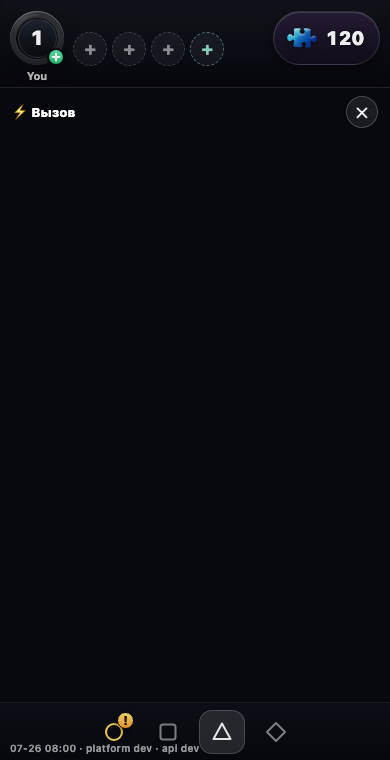
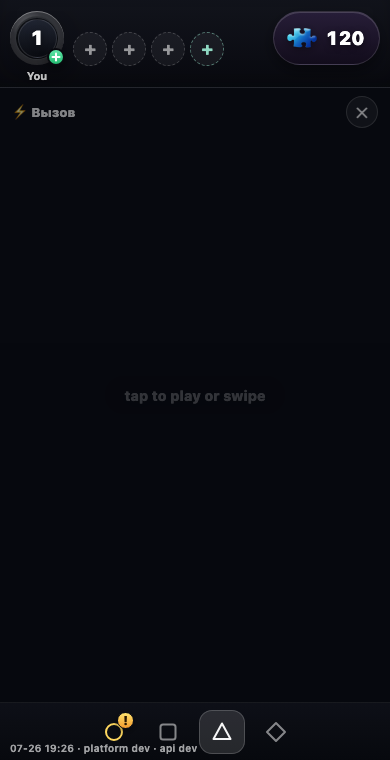
Share/Challenge V1: R2 stand evidence (P1-1 offer-bound runtime, P1-4 x-origin DOM)
Verified on backend @539480b (head 0058) + client @4990a3e with a disposable PG.

- check-challenge-xorigin-dom.mjs (P1-4 DOM, adversarial): after configured/reveal
  the iframe is navigated to a FOREIGN origin which posts completed → win REJECTED
  (0 /results, 0 complete events, no result screen). Second case answers the author's
  false-revoke concern: a legit same-origin runtime is ACCEPTED (1 /results, 1
  complete) and the chpl frame is fetched EXACTLY ONCE — no self-reload, so the
  epoch-revoke never fires on honest play.
- challenge-e2e-support/p1_offer_bound_runtime.py (P1-1 DoD): offer issued under
  release A, then A retired + B activated → the committed offer still resolves and
  DELIVERS A; the level-bundle indexLocator carries A's content hash and never B's.

Screenshots xorigin-A/B; recipient play-B1..B3 regenerated on the new heads.

diff --git a/scripts/challenge-e2e-support/p1_offer_bound_runtime.py b/scripts/challenge-e2e-support/p1_offer_bound_runtime.py
@@ -1,0 +1,117 @@
+"""Codex R2 P1-1 DoD — offer-bound runtime.
+
+An offer is issued while release A is active. Then A is RETIRED and a different
+release B is ACTIVATED. Replaying the SAME committed offer (source run.start with
+sourceOfferRequestId) must still deliver runtime **A** — the offer row is the
+authority, `resolve_active_release` must not participate.
+
+Evidence printed as JSON: the release A/B digests, the ticket-binding spec's
+release, and the level-bundle runtime locator the client would put in the iframe
+src (must be A's content hash, never B's).
+"""
+from __future__ import annotations
+
+import json
+import sys
+import uuid
+
+sys.path.insert(0, ".")
+from sqlalchemy import text  # noqa: E402
+from sqlalchemy.dialects.postgresql import insert as pg_insert  # noqa: E402
+
+import app.challenge_core as cc  # noqa: E402
+from app.api_challenges import SourceLevelIn, create_source_level, get_challenge_level_bundle  # noqa: E402
+from app.api_runs import RunStartIn, start_run  # noqa: E402
+from app.auth import TmaUser  # noqa: E402
+from app.db import SessionLocal  # noqa: E402
+from app.models import ChallengeSpec, ChallengeTicketBinding, RuntimeRelease, User, Variant  # noqa: E402
+from tests.test_challenge_source_level_postgres import (  # noqa: E402
+    _seed_marble_sort_release, _seed_sort_level, _sort_params,
+)
+
+USER = int(sys.argv[1]) if len(sys.argv) > 1 else 700000501
+
+
+def _tma(uid):
+    return TmaUser(id=uid, first_name=f"U{uid}", username=None, language_code="en", is_premium=False)
+
+
+def main() -> None:
+    out = {}
+    # ── release A active + published pool ──
+    with SessionLocal() as db:
+        if not db.execute(text("SELECT count(*) FROM catalog_entries WHERE mechanic='sort' AND state='published'")).scalar():
+            for rot in range(6):
+                _seed_sort_level(params=_sort_params(rot), state="published")
+        db.execute(text("UPDATE runtime_releases SET state='retired', retired_by=activated_by, retired_at=now() "
+                        "WHERE playable_id='marble-sort-swipe' AND state='active'"))
+        db.commit()
+    A = _seed_marble_sort_release(owner_id=880501)
+    out["release_A"] = {"id": str(A["release_id"]), "artifact": A["artifact"]}
+
+    # ── issue the offer while A is active, and bind a source ticket to it ──
+    request_id = f"p11-{uuid.uuid4().hex}"
+    with SessionLocal() as db:
+        db.execute(pg_insert(User).values(id=USER, first_name=f"U{USER}").on_conflict_do_nothing(index_elements=["id"]))
+        vid = uuid.uuid4()
+        db.add(Variant(id=vid, parent_mechanic="marble-sort-swipe", schema_version=1, params={"a": 1}, source="manual"))
+        db.flush()
+        offer = create_source_level(body=SourceLevelIn(request_id=request_id), caller=_tma(USER), db=db, challenge_wire="1")
+        db.commit()
+    out["offer"] = {"request_id": request_id, "spec_digest": offer["spec_digest"]}
+
+    # ── retire A, activate a DIFFERENT release B ──
+    with SessionLocal() as db:
+        db.execute(text("UPDATE runtime_releases SET state='retired', retired_by=activated_by, retired_at=now() "
+                        "WHERE release_id=:r"), {"r": str(A["release_id"])})
+        db.commit()
+    B = _seed_marble_sort_release(owner_id=880502)
+    out["release_B"] = {"id": str(B["release_id"]), "artifact": B["artifact"]}
+    assert A["artifact"] != B["artifact"], "A and B must differ"
+    with SessionLocal() as db:
+        out["active_now"] = [
+            [str(r[0]), r[1]] for r in db.execute(text(
+                "SELECT runtime_artifact_digest, state FROM runtime_releases WHERE playable_id='marble-sort-swipe' ORDER BY state"))
+        ]
+
+    # ── replay the committed offer through source run.start (sourceOfferRequestId) ──
+    ticket_id, run_id = uuid.uuid4(), f"p11-{uuid.uuid4().hex}"
+    with SessionLocal() as db:
+        spec = offer["challengeSpec"]
+        payload = {
+            "schema": cc.CHALLENGE_SOURCE_SCHEMA, "purpose": "challenge_source",
+            "ticket_id": str(ticket_id), "run_id": run_id, "mechanic_id": "marble-sort-swipe",
+            "variant_id": str(vid), "kind": "single",
+            "sourceOfferRequestId": request_id,
+            "challengeSpec": {"playableId": spec["playableId"], "adapterVersion": spec["adapterVersion"],
+                              "schemaVersion": spec["schemaVersion"], "params": spec["params"]},
+        }
+        start_run(body=RunStartIn.model_validate(payload), caller=_tma(USER), db=db, challenge_wire="1")
+        db.commit()
+    with SessionLocal() as db:
+        binding = db.get(ChallengeTicketBinding, ticket_id)
+        cs = db.get(ChallengeSpec, binding.spec_digest)
+        rel = db.get(RuntimeRelease, cs.runtime_release_id)
+        out["run_resolved"] = {
+            "spec_digest": binding.spec_digest,
+            "release_id": str(rel.release_id),
+            "artifact": rel.runtime_artifact_digest,
+            "state_of_that_release": rel.state,
+        }
+        # the exact locator the client puts in the iframe src
+        bundle = get_challenge_level_bundle(ticket_id=ticket_id, caller=_tma(USER), db=db, challenge_wire="1")
+        out["bundle_index_locator"] = bundle["runtime"]["indexLocator"]
+        out["bundle_artifact"] = bundle["runtime"]["runtimeArtifactDigest"]
+
+    hexA = A["artifact"].split(":")[-1]
+    hexB = B["artifact"].split(":")[-1]
+    assert out["run_resolved"]["artifact"] == A["artifact"], f"offer must stay bound to A, got {out['run_resolved']['artifact']}"
+    assert out["bundle_artifact"] == A["artifact"], "bundle runtime must be A"
+    assert hexA in out["bundle_index_locator"] and hexB not in out["bundle_index_locator"], \
+        f"iframe locator must carry A's hash: {out['bundle_index_locator']}"
+    out["verdict"] = "PASS: committed offer delivered retired release A while B is active"
+    print(json.dumps(out, indent=2, default=str))
+
+
+if __name__ == "__main__":
+    main()
